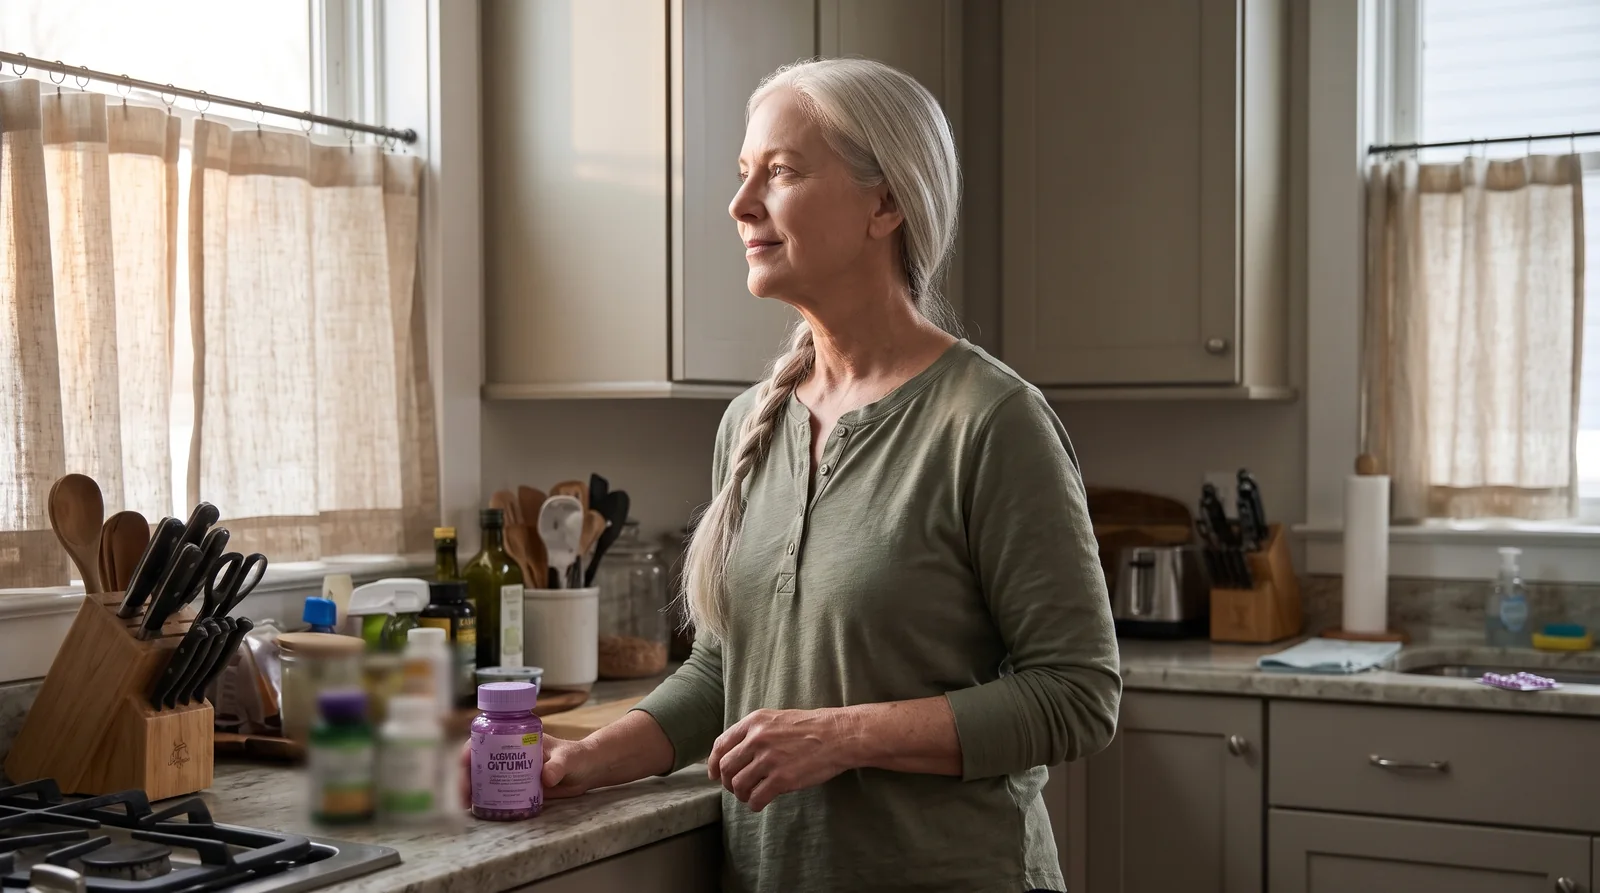
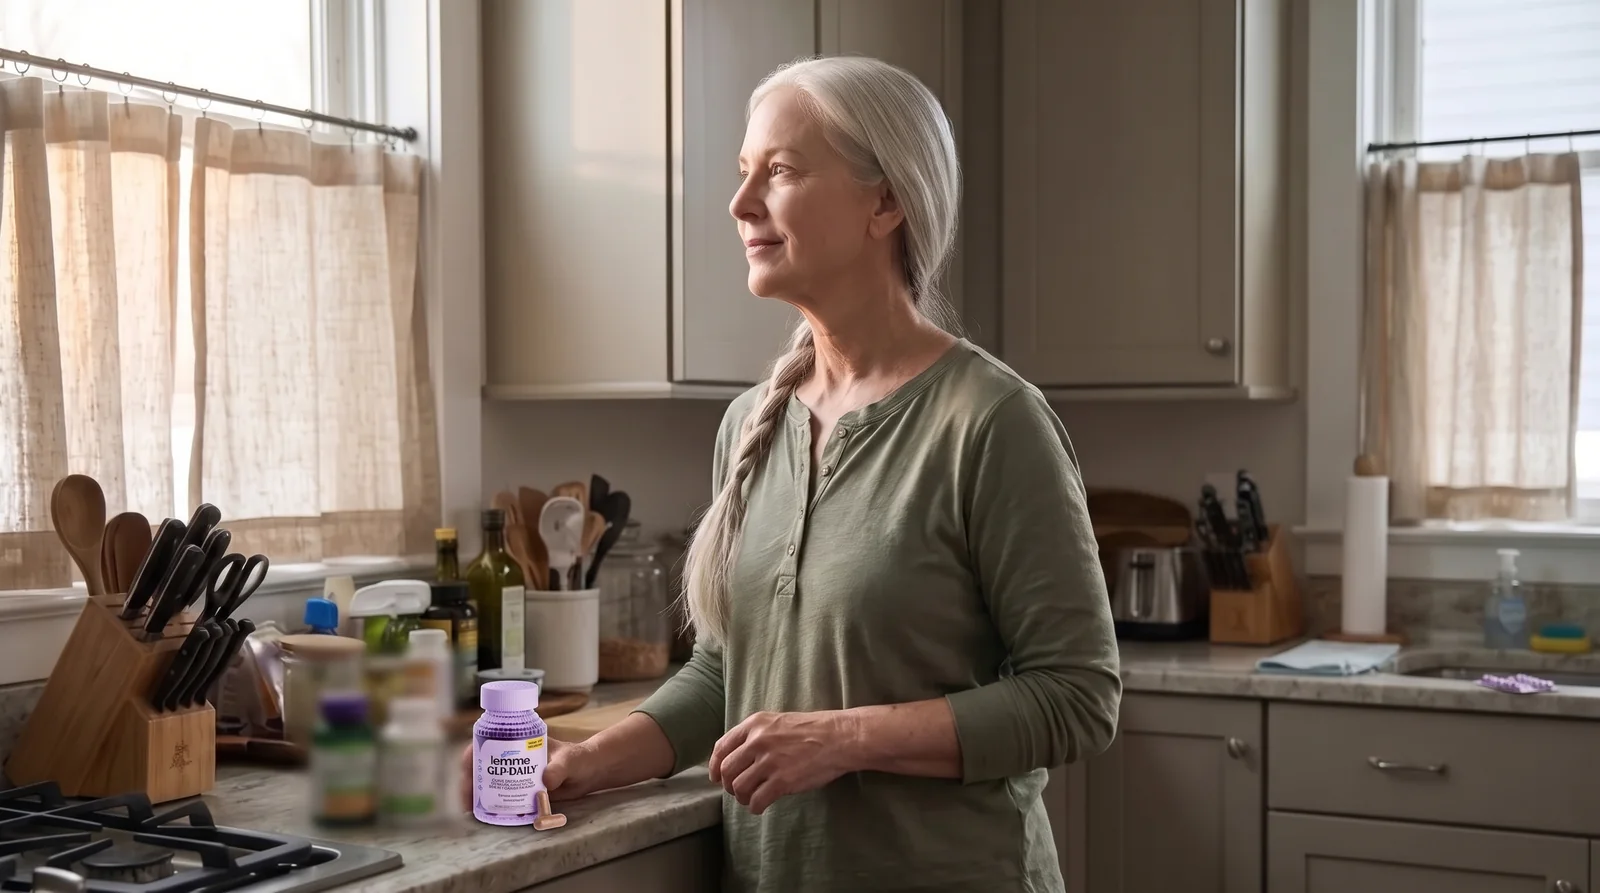
photos: do-glp-1-supplements-work recheck fixes

diff --git a/blog-pipeline/photos-completed/do-glp-1-supplements-work.md b/blog-pipeline/photos-completed/do-glp-1-supplements-work.md
@@ -36,3 +36,6 @@ note: "Greige kitchen with granite counters and cafe curtains, woman in her earl
 - image_url: https://scan.ismyhometoxic.com/blog-images/doglp1suppl-freedom-v1.webp
 - placement: final image before the closing scan CTA
 - completed: 2026-11-19T18:23:00
+
+## Recheck (Photo Claude) 2026-11-20
+Recheck: Bottle relabelled correctly as Lemme GLP-1 Daily.
